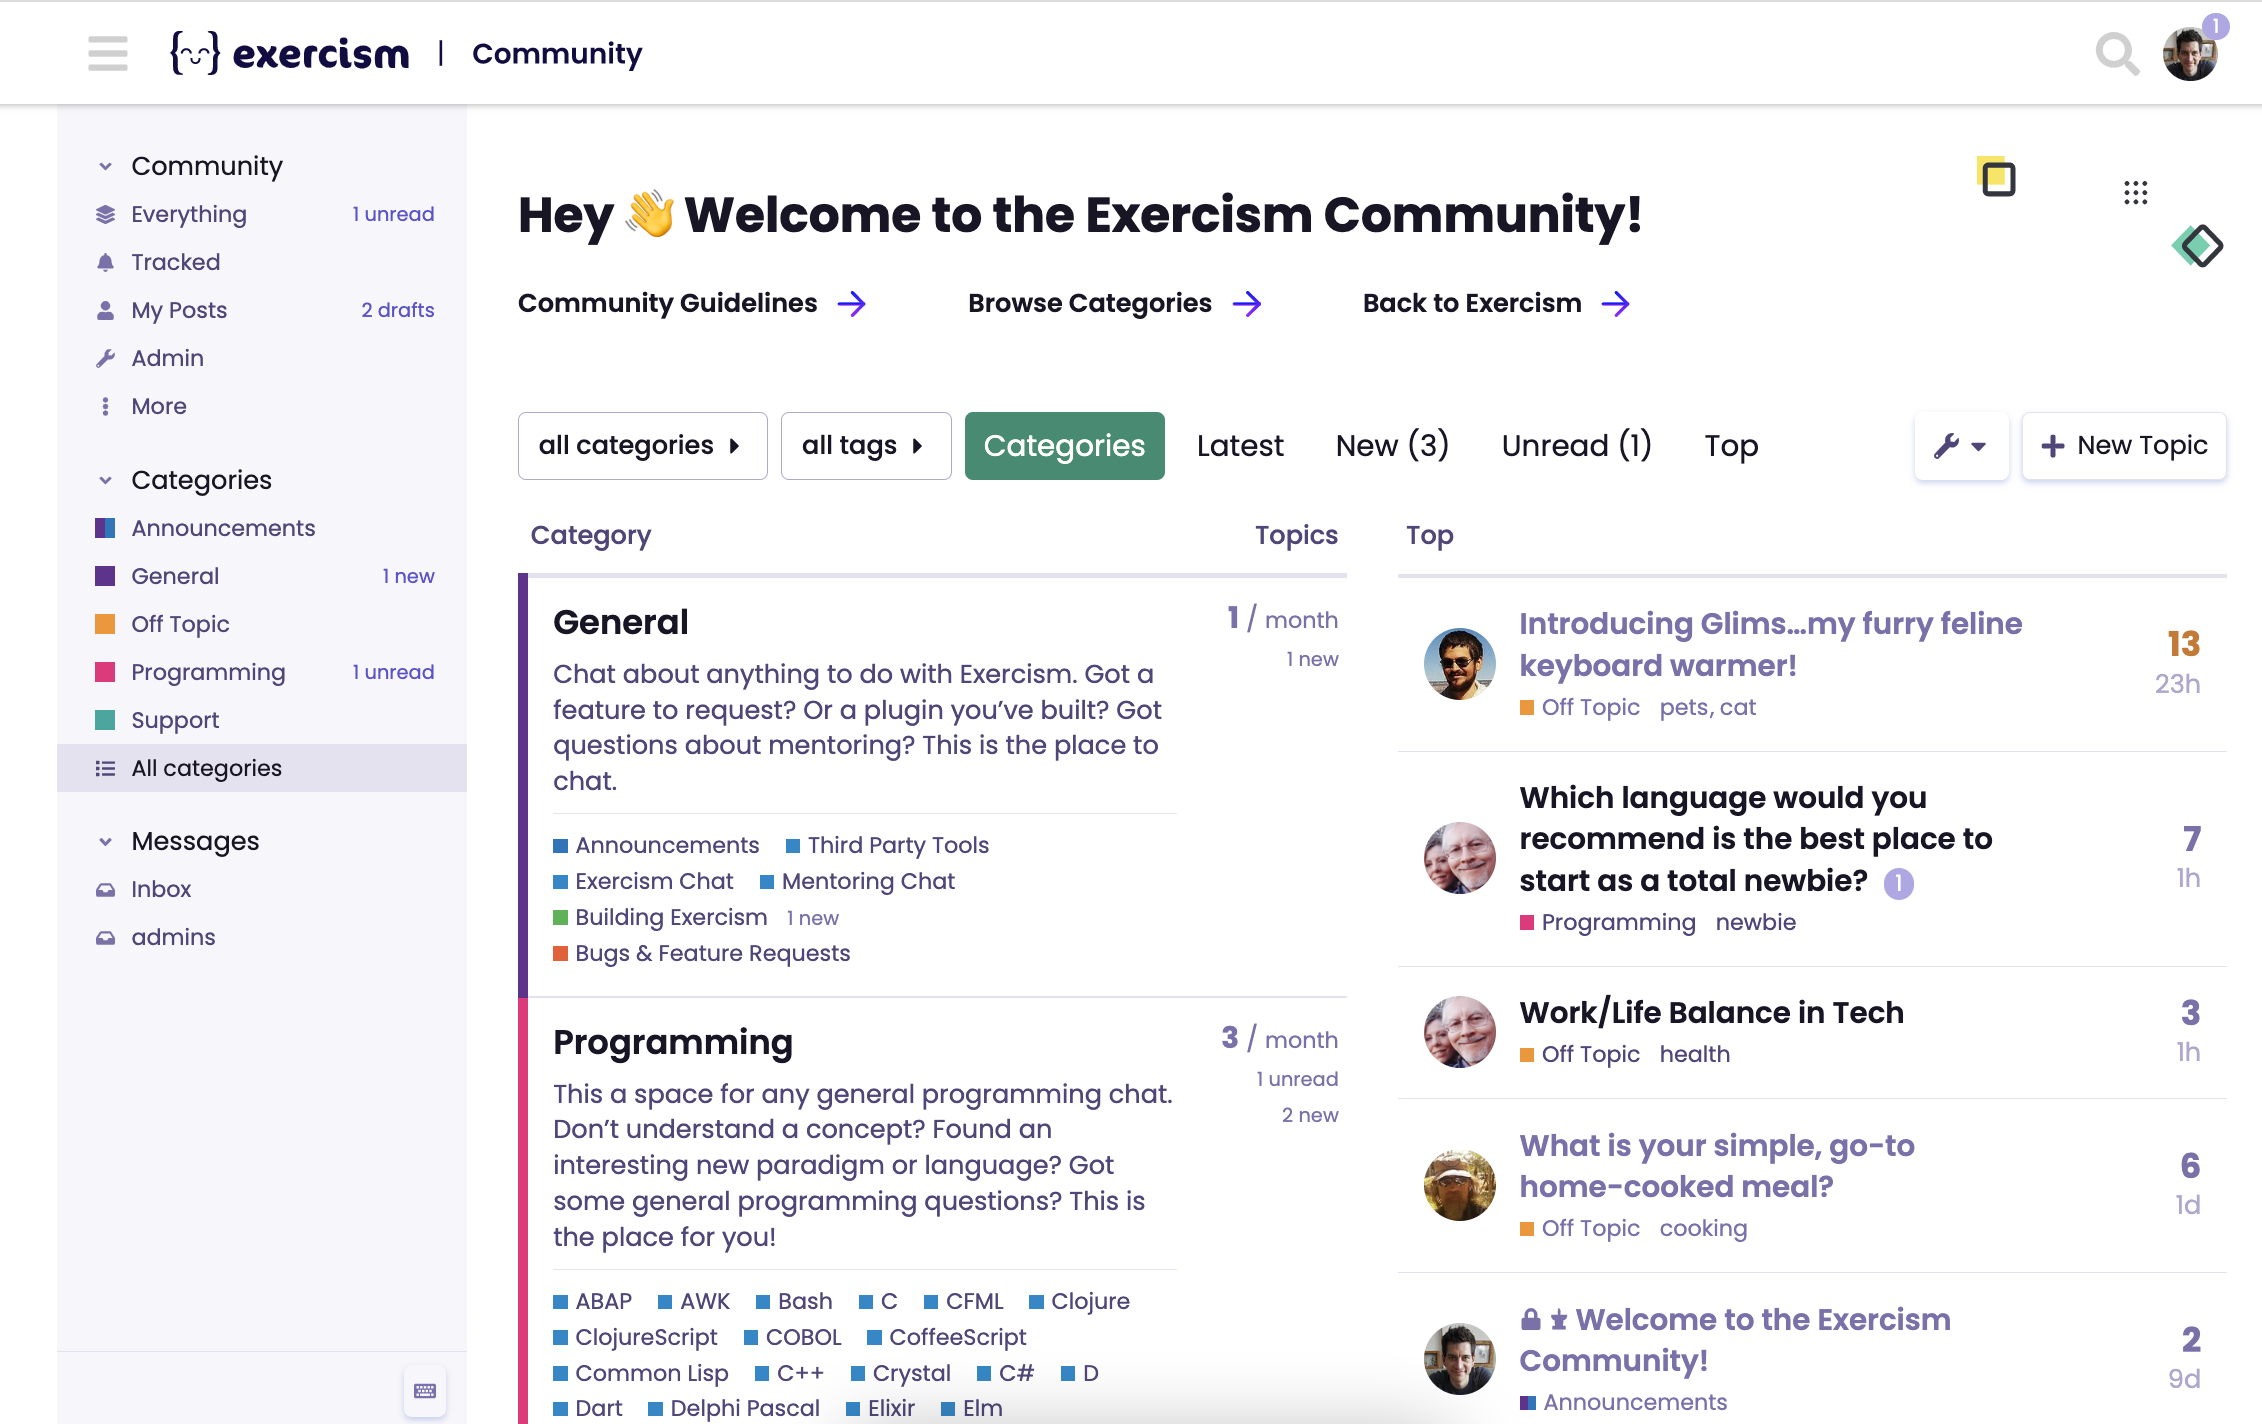
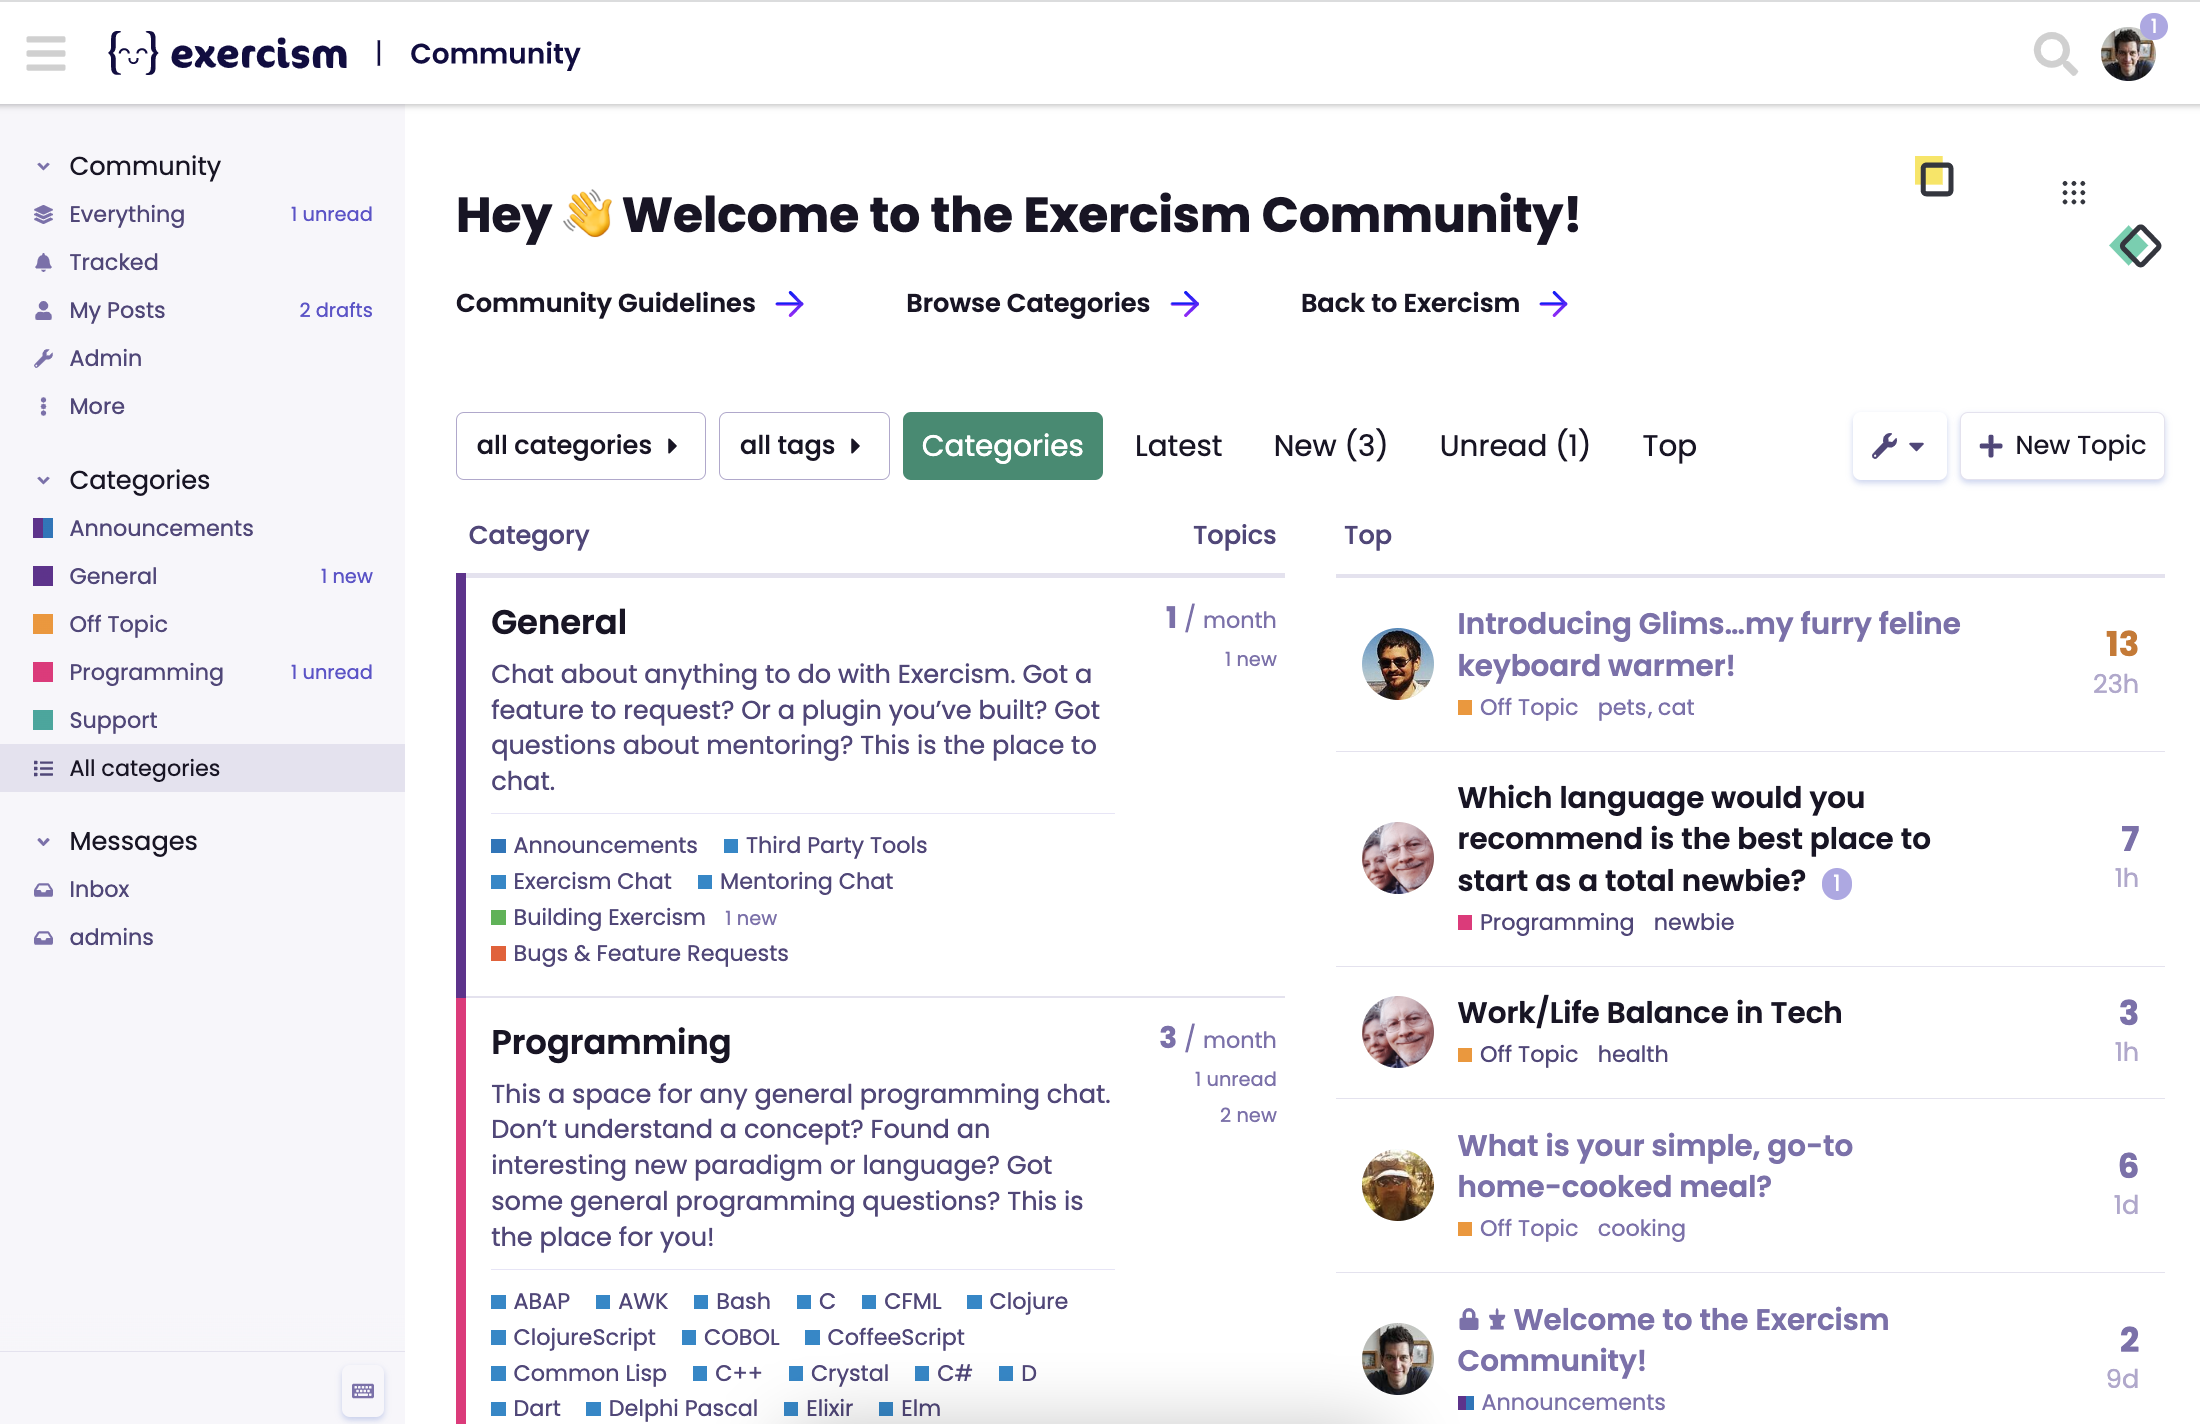
Add community launch modal
Fix images

Fix JS errors

Fixes from reviews

Add tweaks

Apply suggestions from code review

Tweak new tag

diff --git a/app/javascript/components/modals/CommunityLaunchModal.tsx b/app/javascript/components/modals/CommunityLaunchModal.tsx
@@ -2,19 +2,18 @@ import React, { useCallback, useState } from 'react'
 import { Modal, ModalProps } from './Modal'
 import { useMutation } from 'react-query'
 import { sendRequest } from '../../utils/send-request'
-import { Avatar, FormButton, GraphicalIcon } from '../common'
+import { FormButton, GraphicalIcon } from '../common'
 import { ErrorBoundary, ErrorMessage } from '../ErrorBoundary'
-import { User } from '../types'
 
 const DEFAULT_ERROR = new Error('Unable to dismiss modal')
 
-export const FirstTimeModal = ({
+export const CommunityLaunchModal = ({
   endpoint,
-  contributors,
+  jonathanImageUrl,
   ...props
 }: Omit<ModalProps, 'className' | 'open' | 'onClose'> & {
   endpoint: string
-  contributors: readonly User[]
+  jonathanImageUrl: string
 }): JSX.Element => {
   const [open, setOpen] = useState(true)
   const [mutation, { status, error }] = useMutation(
@@ -51,85 +50,70 @@ export const FirstTimeModal = ({
       cover={true}
       open={open}
       {...props}
-      onClose={() => {}}
-      className="m-welcome-to-v3"
+      onClose={() => null}
+      className="m-community-launch"
     >
       <div className="lhs">
         <header>
-          <h1>Welcome to Exercism V3! 🎉</h1>
+          <h1>The new "Community" tab</h1>
+
           <p>
-            Phew! It’s been long in the making, but we’re finally here.
-            <br />
-            <strong>Welcome to version 3 of Exercism.</strong>
+            We think our community is pretty special - thousands of people
+            learning, mentoring and supporting each other in a non-toxic
+            environment. Well from today we're focussing even more on making
+            Exercism a great place for you all to spend time.
           </p>
         </header>
 
-        <h2>So, what’s the big deal?</h2>
+        <h2>So, what’s new?</h2>
         <p>
-          We’ve updated and improved the whole Exercism experience from the
-          ground up. Here are just a few of the excited new things you’ll notice
-          as you use Exercism v3:
+          We’ve added a few new sections to Exercism. Everything is accessible
+          via the new Community tab.
         </p>
 
         <div className="improvements">
           <div className="improvement">
             <GraphicalIcon icon="exercise" category="graphics" />
             <div className="info">
-              <h3>Learning Mode</h3>
+              <h3>Exercism&apos;s Forum</h3>
               <p>
-                Exercism’s not just about practicing - you can now use it to
-                learn too, with our new Concepts and Exercises.
+                Our new forum is a fun space to chat about programming, help
+                guid the future of Exercis, get support if you get stuck, and
+                hang out with each other.
+              </p>
+            </div>
+          </div>
+
+          <div className="improvement">
+            <GraphicalIcon icon="journey" category="graphics" />
+            <div className="info">
+              <h3>Dig Deeper</h3>
+              <p>
+                We&apos;re pulling the thousands of community walkthroughs into
+                one place along with commentry and guidance on exercises. Look
+                out for the new Dig Deeper tab on exercises!
+              </p>
+            </div>
+          </div>
+
+          <div className="improvement">
+            <GraphicalIcon icon="reputation" category="graphics" />
+            <div className="info">
+              <h3>Community Stories</h3>
+              <p>
+                Sit back, get inspired and enjoy inspiring tales from
+                Exercism&apos;s community in our new Community Stories section.
               </p>
             </div>
           </div>
           <div className="improvement">
             <GraphicalIcon icon="editor" category="graphics" />
             <div className="info">
-              <h3>Introducing the Exercism editor</h3>
+              <h3>SWAG</h3>
               <p>
-                Jump in and try new languages straight away in your browser
-                without installing anything locally. And the CLI is still there
-                if you like the original way!
-              </p>
-            </div>
-          </div>
-          <div className="improvement">
-            <GraphicalIcon icon="reputation" category="graphics" />
-            <div className="info">
-              <h3>Reputation &amp; badges</h3>
-              <p>
-                The more you contribute to exercism the faster you get mentored.
-                Unlock badges for achievements. Show them off on your profile.
-              </p>
-            </div>
-          </div>
-          <div className="improvement">
-            <GraphicalIcon icon="journey" category="graphics" />
-            <div className="info">
-              <h3>Your Journey</h3>
-              <p>
-                Explore everything you’ve done on Exercism. From your learning,
-                mentoring and contributions.
-              </p>
-            </div>
-          </div>
-          <div className="improvement">
-            <GraphicalIcon icon="mentoring" category="graphics" />
-            <div className="info">
-              <h3>New mentoring</h3>
-              <p>
-                No more blocking. More automation. Ability to get friends to
-                mentor you.
-              </p>
-            </div>
-          </div>
-          <div className="improvement">
-            <GraphicalIcon icon="ux" category="graphics" />
-            <div className="info">
-              <h3>New look and feel</h3>
-              <p>
-                We’ve taken Exercism to the next level with a whole new user
-                experience, improving every aspect of the website.
+                People have been asking us for SWAG forever. Well now its here!
+                T-shirts, hoodies, bags, jigsaws, even phone cases - show your
+                love for Exercism with some high-quality merch.
               </p>
             </div>
           </div>
@@ -141,7 +125,7 @@ export const FirstTimeModal = ({
           type="button"
           onClick={handleClick}
         >
-          I’m ready to explore the new Exercism!
+          Sounds good! Let&apos;s go.
         </FormButton>
         <ErrorBoundary resetKeys={[status]}>
           <ErrorMessage error={error} defaultError={DEFAULT_ERROR} />
@@ -162,22 +146,30 @@ export const FirstTimeModal = ({
         </div>
         <script src="https://player.vimeo.com/api/player.js"></script>
         <div className="thank-you">
-          <h3>
-            The biggest thank you to everyone who helped make v3 a reality 💙
-          </h3>
-          <p>
-            Exercism&apos;s continued evolution would not be possible if not for
-            these wonderful people.
+          <h3>This wouldn&apos;t be possible without your kind donations 💙</h3>
+          <p className="mb-8">
+            Thanks to your kind donations, we&apos;ve been able to hire
+            Jonathan, our new Community Manager, who can now dedicate the time
+            and resource we need to properly nuture our community.
           </p>
-          <ul className="contributors">
-            {contributors.map((c) => {
-              return (
-                <li key={c.handle}>
-                  <Avatar handle={c.handle} src={c.avatarUrl} />
-                </li>
-              )
-            })}
-          </ul>
+          <p className="mb-12">
+            If you see Jonathan around, say hello! He&apos;d love to chat, hear
+            your story, and learn how we can make Exercism even better for you
+            👇
+          </p>
+          <div className="flex flex-row items-center bg-white rounded-100 p-12">
+            <img
+              src={jonathanImageUrl}
+              alt="Photo of Jonathan"
+              className="w-[48px] h-[48px] mr-16 rounded-circle"
+            />
+            <div className="flex flex-col">
+              <div className="text-h6 mb-4">Jonathan Middleton</div>
+              <div className="text-textColor6 font-medium">
+                Community Manager
+              </div>
+            </div>
+          </div>
         </div>
       </div>
     </Modal>

diff --git a/app/css/modals/community-launch.css b/app/css/modals/community-launch.css
@@ -1,6 +1,6 @@
 @import "../styles";
 
-.m-welcome-to-v3.c-modal.--cover {
+.m-community-launch.c-modal.--cover {
     background: var(--modalBackgroundColor);
 
     & .--modal-container {
@@ -19,7 +19,7 @@
 
         @apply mt-20 mb-40;
         @apply py-40 px-48 bg-backgroundColorA;
-        @apply shadow-lgZ1;
+        @apply shadow-lgZ1 rounded-16;
         @apply flex items-start;
         width: 100%;
         max-width: 1180px;
@@ -49,7 +49,7 @@
             @apply text-16 leading-huge;
         }
         & .improvements {
-            @apply mt-24 mb-40;
+            @apply mt-24 mb-32;
 
             & .improvement {
                 @apply flex items-start;
@@ -102,16 +102,6 @@
             }
             & p {
                 @apply text-16 leading-paragraph;
-                @apply mb-24;
-            }
-
-            & .contributors {
-                @apply grid gap-16 grid-cols-6;
-
-                & .c-avatar {
-                    width: 48px;
-                    height: 48px;
-                }
             }
         }
     }

diff --git a/app/javascript/packs/internal.tsx b/app/javascript/packs/internal.tsx
@@ -100,10 +100,10 @@ initReact({
     <MarkdownEditor contextId={data.context_id} />
   ),
 
-  'modals-first-time-modal': (data: any) => (
-    <Modals.FirstTimeModal
+  'modals-community-launch-modal': (data: any) => (
+    <Modals.CommunityLaunchModal
       endpoint={data.endpoint}
-      contributors={camelizeKeysAs<readonly User[]>(data.contributors)}
+      jonathanImageUrl={data.jonathan_image_url}
     />
   ),
 

diff --git a/app/css/application.postcss.css b/app/css/application.postcss.css
@@ -148,7 +148,7 @@
 @import "./modals/mentoring-sessions";
 @import "./modals/confirm-finish-student-mentor-discussion";
 @import "./modals/finish-student-mentor-discussion";
-@import "./modals/welcome-to-v3";
+@import "./modals/community-launch";
 @import "./modals/become-mentor";
 @import "./modals/change-mentor-tracks";
 @import "./modals/select-exercise-for-mentoring";

diff --git a/app/javascript/components/modals/index.ts b/app/javascript/components/modals/index.ts
@@ -1,3 +1,3 @@
-export { FirstTimeModal } from './FirstTimeModal'
+export { CommunityLaunchModal } from './CommunityLaunchModal'
 export { Modal } from './Modal'
 export { UploadVideoModal } from './upload-video'

diff --git a/app/helpers/view_components/site_header.rb b/app/helpers/view_components/site_header.rb
@@ -7,20 +7,20 @@ module ViewComponents
 
     def to_s
       tag.header(id: "site-header") do
-        # announcement_bar +
-        tag.div(class: "lg-container container") do
-          logo + docs_nav + contextual_section
-        end
+        announcement_bar +
+          tag.div(class: "lg-container container") do
+            logo + docs_nav + contextual_section
+          end
       end
     end
 
     private
     def announcement_bar
-      link_to(Exercism::Routes.hiring_about_path, class: "announcement-bar") do
+      link_to(Exercism::Routes.community_path, class: "announcement-bar") do
         tag.div(class: "lg-container") do
-          tag.span("We’re hiring!") +
-            tag.strong("Come and join the Exercism team") +
-            tag.span("😁")
+          tag.span("Forums, Swag, Stories, Videos...") +
+            tag.strong("Check out the new Community tab!") +
+            tag.span("👪")
         end
       end
     end
@@ -56,16 +56,23 @@ module ViewComponents
           si_nav_li("Dashboard", :dashboard, Exercism::Routes.dashboard_path, selected_tab == :dashboard) +
             si_nav_li("Tracks", :tracks, Exercism::Routes.tracks_path, selected_tab == :tracks) +
             si_nav_li("Mentoring", :mentoring, Exercism::Routes.mentoring_inbox_path, selected_tab == :mentoring) +
-            si_nav_li("Contribute", :contribute, Exercism::Routes.contributing_root_path, selected_tab == :contributing) +
+            si_nav_li("Community", :community, Exercism::Routes.community_path, selected_tab == :community, new: true) +
             si_nav_li("Donate 💜", :contribute, Exercism::Routes.donate_path, selected_tab == :donate)
         end
       end
     end
 
-    def si_nav_li(title, icon_name, url, selected)
+    def si_nav_li(title, icon_name, url, selected, new: false)
       attrs = selected ? { class: "selected", "aria-current": "page" } : {}
       tag.li attrs do
-        link_to(graphical_icon(icon_name) + tag.span(title), url, "data-turbo-frame": "tf-main")
+        elems = [graphical_icon(icon_name), tag.span(title)]
+        if new
+          elems << (tag.div(class: 'ml-8 text-warning bg-[#FFF3E1] px-8 py-6 rounded-100 font-semibold text-[13px] flex items-center') do # rubocop:disable Layout/LineLength
+            graphical_icon('sparkle', css_class: '!filter-warning !w-[12px] !h-[12px] !mr-4 !block') +
+            tag.span("New")
+          end)
+        end
+        link_to(safe_join(elems), url, "data-turbo-frame": "tf-main", class: 'relative')
       end
     end
 

diff --git a/app/helpers/react_components/modals/community_launch_modal.rb b/app/helpers/react_components/modals/community_launch_modal.rb
@@ -1,0 +1,22 @@
+module ReactComponents
+  module Modals
+    class CommunityLaunchModal < ReactComponent
+      def to_s
+        return if current_user.introducer_dismissed?(slug)
+
+        super(
+          "modals-community-launch-modal",
+          {
+            endpoint: Exercism::Routes.hide_api_settings_introducer_path(slug),
+            jonathan_image_url: image_url('team/jonathan.jpg')
+          }
+        )
+      end
+
+      private
+      def slug
+        "community-launch-modal"
+      end
+    end
+  end
+end

diff --git a/app/helpers/view_components/view_component.rb b/app/helpers/view_components/view_component.rb
@@ -5,7 +5,7 @@ module ViewComponents
 
     delegate :user_signed_in?, :current_user,
       :render, :safe_join, :raw,
-      :tag, :link_to, :external_link_to, :button_to, :image_tag,
+      :tag, :link_to, :external_link_to, :button_to, :image_tag, :image_url,
       :time_ago_in_words, :pluralize, :number_with_delimiter,
       :graphical_icon, :icon, :track_icon, :exercise_icon, :avatar,
       :capture_haml,

diff --git a/config/routes.rb b/config/routes.rb
@@ -132,7 +132,7 @@ Rails.application.routes.draw do
     end
   end
 
-  resources :community, only: %i[index]
+  resource :community, only: %i[show], controller: "community"
 
   namespace :community do
     resources :stories, only: %i[index show]

diff --git a/app/controllers/community_controller.rb b/app/controllers/community_controller.rb
@@ -1,7 +1,7 @@
 class CommunityController < ApplicationController
   skip_before_action :authenticate_user!
 
-  def index
+  def show
     # TODO: add caching
     @supporter_avatar_urls =
       User::AcquiredBadge.joins(:user).
